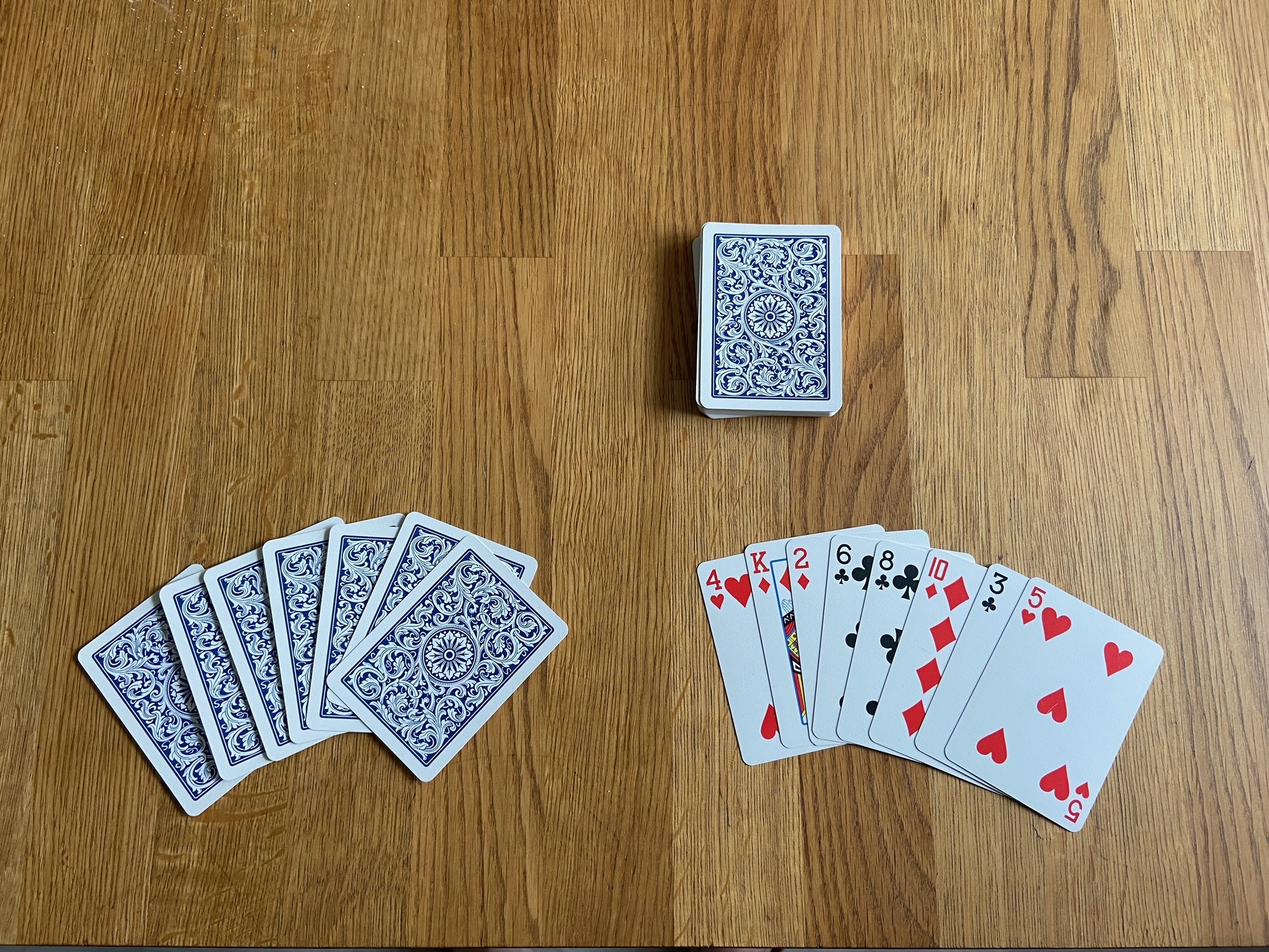
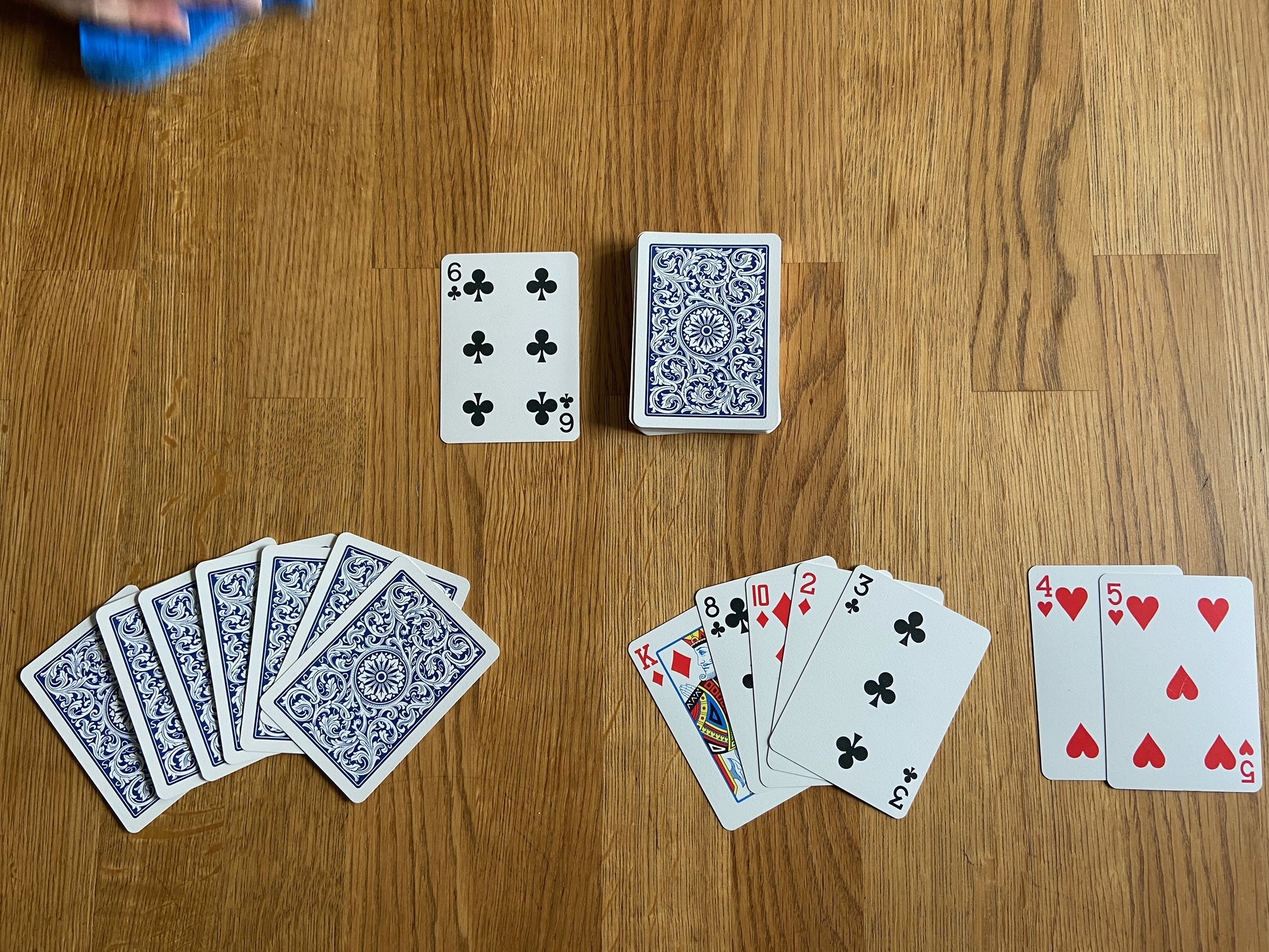
fix: some rules images werent corrent. feat: information regarding rules and its respective images are now mapped to the rules component for clarity

diff --git a/src/components/Rules.js b/src/components/Rules.js
@@ -1,12 +1,13 @@
 import React from 'react';
-import RulesImage1 from '../images/RulesImage1.jpeg';
-import RulesImage2 from '../images/RulesImage2.jpeg';
-import RulesImage3 from '../images/RulesImage3.jpeg';
-import RulesImage4 from '../images/RulesImage4.jpeg';
-import RulesImage5 from '../images/RulesImage5.jpeg';
-import RulesImage6 from '../images/RulesImage6.jpeg';
-import RulesImage7 from '../images/RulesImage7.jpeg';
-import RulesImage8 from '../images/RulesImage8.jpeg';
+// import RulesImage1 from '../images/RulesImage1.jpeg';
+// import RulesImage2 from '../images/RulesImage2.jpeg';
+// import RulesImage3 from '../images/RulesImage3.jpeg';
+// import RulesImage4 from '../images/RulesImage4.jpeg';
+// import RulesImage5 from '../images/RulesImage5.jpeg';
+// import RulesImage6 from '../images/RulesImage6.jpeg';
+// import RulesImage7 from '../images/RulesImage7.jpeg';
+// import RulesImage8 from '../images/RulesImage8.jpeg';
+import { rules } from '../data';
 
 const Rules = () => {
   return (
@@ -18,59 +19,13 @@ const Rules = () => {
       </div>
       <div className='container'>
         <div className='row my-5'>
-          <div className='col-md-4 my-4'>
-            <img src={RulesImage1} alt='cards' className='w-100' />
-            <h4 className='my-4'>Rule #1</h4>
-            <p>this is where the rule explanation is going to go</p>
-          </div>
-
-          <div className='col-md-4 my-4'>
-            <img src={RulesImage2} alt='cards' className='w-100' />
-            <h4 className='my-4'>Rule #1</h4>
-            <p>this is where the rule explanation is going to go</p>
-          </div>
-
-          <div className='col-md-4 my-4'>
-            <img src={RulesImage3} alt='cards' className='w-100' />
-            <h4 className='my-4'>Rule #1</h4>
-            <p>this is where the rule explanation is going to go</p>
-          </div>
-
-          <div className='col-md-4 my-4'>
-            <img src={RulesImage4} alt='cards' className='w-100' />
-            <h4 className='my-4'>Rule #1</h4>
-            <p>this is where the rule explanation is going to go</p>
-          </div>
-
-          <div className='col-md-4 my-4'>
-            <img src={RulesImage5} alt='cards' className='w-100' />
-            <h4 className='my-4'>Rule #1</h4>
-            <p>this is where the rule explanation is going to go</p>
-          </div>
-
-          <div className='col-md-4 my-4'>
-            <img src={RulesImage6} alt='cards' className='w-100' />
-            <h4 className='my-4'>Rule #1</h4>
-            <p>this is where the rule explanation is going to go</p>
-          </div>
-
-          <div className='col-md-4 my-4'>
-            <img src={RulesImage7} alt='cards' className='w-100' />
-            <h4 className='my-4'>Rule #1</h4>
-            <p>this is where the rule explanation is going to go</p>
-          </div>
-
-          <div className='col-md-4 my-4'>
-            <img src={RulesImage8} alt='cards' className='w-100' />
-            <h4 className='my-4'>Rule #1</h4>
-            <p>this is where the rule explanation is going to go</p>
-          </div>
-
-          <div className='col-md-4 my-4'>
-            <img src={RulesImage8} alt='cards' className='w-100' />
-            <h4 className='my-4'>Rule #1</h4>
-            <p>this is where the rule explanation is going to go</p>
-          </div>
+          {rules.map((rule) => (
+            <div className='col-md-4 my-4'>
+              <img src={rule.img} alt='Rule' className='w-100' />
+              <h4 className='my-4'>{rule.title}</h4>
+              <p>{rule.rule}</p>
+            </div>
+          ))}
         </div>
       </div>
     </div>

diff --git a/src/data.js b/src/data.js
@@ -1,0 +1,56 @@
+import RulesImage1 from './images/RulesImage1.jpeg';
+import RulesImage2 from './images/RulesImage2.jpeg';
+import RulesImage3 from './images/RulesImage3.jpeg';
+import RulesImage4 from './images/RulesImage4.jpeg';
+import RulesImage5 from './images/RulesImage5.jpeg';
+import RulesImage6 from './images/RulesImage6.jpeg';
+import RulesImage7 from './images/RulesImage7.jpeg';
+import RulesImage8 from './images/RulesImage8.jpeg';
+
+export const rules = [
+  {
+    img: RulesImage8,
+    title: 'RUMMY!',
+    rule: 'Rummy is achieved when one player has one of the following in their hand. \n three of a kind and four of a kind \n three of a kind and a suited four card run \n four of a kind and a suited three card run. Pictured above are some examples.',
+  },
+  {
+    img: RulesImage1,
+    title: 'First',
+    rule: 'Both players are dealt seven cards, one at a time to each player, face down.',
+  },
+  {
+    img: RulesImage2,
+    title: 'Second',
+    rule: 'The remainder of the deck is then placed face down between both players with the top card turned over. The face up card will be the start of the discard pile.',
+  },
+  {
+    img: RulesImage3,
+    title: 'Third',
+    rule: 'Each player will look at their hand. At this time the player who goes first will decide whether or not the face up card will benefit their hand. Here we can see that the 5 of Hearts does indeed benefit this hand.',
+  },
+  {
+    img: RulesImage4,
+    title: 'Fourth',
+    rule: 'The player will then take the card from the discard pile. (Important to note that only the top card can be drawn from the discard pile.) Because each player can only have seven cards in their respective hands at any time, the player is forced to discard one.',
+  },
+  {
+    img: RulesImage5,
+    title: 'Fifth',
+    rule: "We can see here that the 6 of Clubs was discarded. Now its the second players turn. The 6 of Clubs won't benefit this players hand, so they can now draw from the top of the deck. (The player does not have to show this card to the opposing player.)",
+  },
+  {
+    img: RulesImage6,
+    title: 'Sixth',
+    rule: 'The player has drawn the 9 of Spades. This card also does not benefit the hand.',
+  },
+  {
+    img: RulesImage7,
+    title: 'Seventh',
+    rule: 'The player then has to discard one card from their hand. Here we can see that 9 of spades was discarded as its the least beneficial card in the course to achieve Rummy.',
+  },
+  {
+    img: RulesImage8,
+    title: 'Lastly',
+    rule: 'Each player will continue these steps during their turns until one player achieves Rummy.',
+  },
+];
